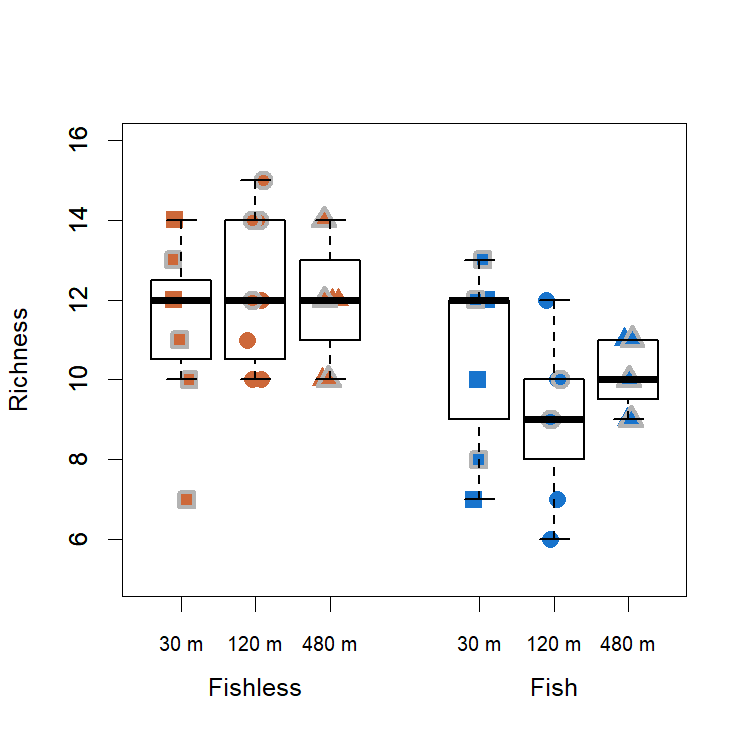
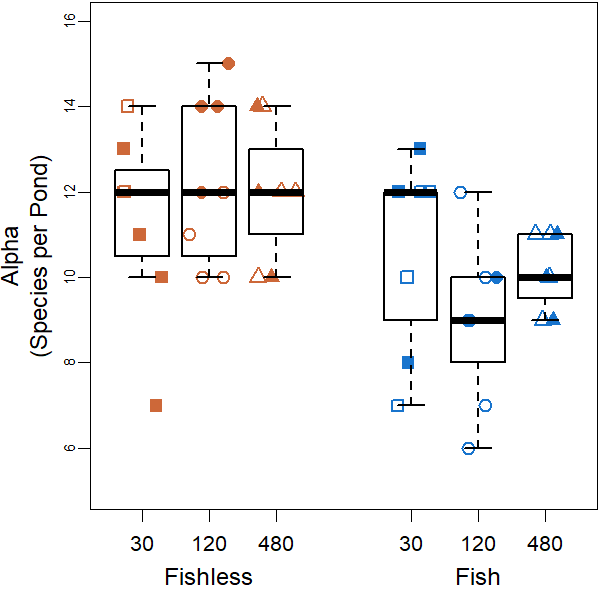
Updating alpha diversity analyses

diff --git a/Alpha Diversity Analyses/Alpha-Diversity-Analyses.md b/Alpha Diversity Analyses/Alpha-Diversity-Analyses.md
@@ -117,31 +117,39 @@ richness.
 Lets plot it:
 
 ``` r
+par(cex = 0.75, mar = c(4,4,0.1,0.1))
+
 boxplot(com_SS2_SS3_richness~isolation_SS2_SS3*fish_SS2_SS3,
-        outline = F, ylab = "Richness", xlab = "",
-        at = c(1,2,3,5,6,7),ylim = c(5,16), lwd = 1.5, col = "transparent", xaxt="n")
+        outline = F, ylab = "", xlab = "",
+        at = c(1,2,3,5,6,7),ylim = c(5,16), lwd = 1.5, col = "transparent", xaxt="n", yaxt="n")
 mylevels <- levels(All)
-levelProportions <- summary(All)/length(com_SS2_SS3_richness)
-col <- c(rep("sienna3",3), rep("dodgerblue3",3), rep("grey70",6))
-bg <- c(rep("sienna3",3), rep("dodgerblue3",3),rep("sienna3",3), rep("dodgerblue3",3))
-pch <- c(15,16,17,15,16,17,22,21,24,22,21,24)
+#levelProportions <- summary(All)/length(com_SS2_SS3_richness)
+col <- c(rep("sienna3",3), rep("dodgerblue3",3),rep("sienna3",3), rep("dodgerblue3",3))
+bg <- c(rep("transparent",3), rep("transparent",3),rep("sienna3",3), rep("dodgerblue3",3))
+pch <- c(22,21,24,22,21,24,15,16,17,15,16,17)
 for(i in 1:length(mylevels)){
-  
+
   x<- c(1,2,3,5,6,7,1,2,3,5,6,7)[i]
   thislevel <- mylevels[i]
   thisvalues <- com_SS2_SS3_richness[All==thislevel]
-  
+
   # take the x-axis indices and add a jitter, proportional to the N in each level
-  myjitter <- jitter(rep(x, length(thisvalues)), amount=levelProportions[i]/0.8)
-  points(myjitter, thisvalues, pch=pch[i], col=col[i], bg = bg[i] , cex = 1.5, lwd = 3) 
-  
+  myjitter <- jitter(rep(x, length(thisvalues)), amount=0.3)
+  points(myjitter, thisvalues, pch=pch[i], col=col[i], bg = bg[i] , cex = 1.5, lwd = 1.5)
+
 }
 boxplot(com_SS2_SS3_richness~isolation_SS2_SS3*fish_SS2_SS3,
         add = T, col = "transparent", outline = F,at = c(1,2,3,5,6,7),
-        lwd = 1.5, xaxt="n")
-axis(1,labels = c("30 m","120 m", "480 m","30 m","120 m", "480 m"), cex.axis = 0.8,
-     at =c(1,2,3,5,6,7))
-axis(1,labels = c("Fishless","Fish"), cex.axis = 1, at =c(2,6), line = 1.5, tick = F )
+        lwd = 1.5, xaxt="n", yaxt="n")
+
+axis(1,labels = c("30","120", "480","30","120", "480"), cex.axis = 1.1,
+     at =c(1,2,3,5,6,7), gap.axis = -10)
+axis(1,labels = c("Fishless","Fish"), cex.axis = 1.3, at =c(2,6), line = 1.5, tick = F )
+axis(2, cex.axis = 0.8, gap.axis = 0, line = -0.5, tick = FALSE)
+axis(2, cex.axis = 0.8, gap.axis = 0, line = 0, tick = TRUE, labels = FALSE)
+
+title(ylab = "Alpha", cex.lab = 1.3, line = 3)
+title(ylab = "(Species per Pond)", cex.lab = 1.3, line = 1.75)
 ```
 
 <img src="Alpha-Diversity-Analyses_files/figure-gfm/unnamed-chunk-1-1.png" width="490" height="490" style="display: block; margin: auto;" />
@@ -149,65 +157,82 @@ axis(1,labels = c("Fishless","Fish"), cex.axis = 1, at =c(2,6), line = 1.5, tick
 Ploting two surveys separetely
 
 ``` r
-par(mfrow = c(1,2))
+par(cex = 0.75, mar = c(4,4,1.5,0.1))
+
+
 boxplot(com_SS2_SS3_richness[SS_SS2_SS3 == "2"]~isolation_SS2*fish_SS2,
-        outline = F, ylab = "Richness", xlab = "",
-        at = c(1,2,3,5,6,7),ylim = c(5,16), lwd = 1.5, col = "transparent", xaxt="n", main = "Second Survey")
+        outline = F, ylab = "", xlab = "",
+        at = c(1,2,3,5,6,7),ylim = c(5,16), lwd = 1.5, col = "transparent", xaxt="n",  yaxt="n")
 mylevels <- levels(fish_isolation_SS2)
-levelProportions <- summary(fish_isolation_SS2)/length(com_SS2_SS3_richness[SS_SS2_SS3 == "2"])
+#levelProportions <- summary(fish_isolation_SS2)/length(com_SS2_SS3_richness[SS_SS2_SS3 == "2"])
+col <- rep(c("sienna3", "dodgerblue3"),3)
+bg <- rep(c("transparent", "transparent"),3)
+pch <- c(22,22,21,21,24,24) #o outro é 22,21,24
+for(i in 1:length(mylevels)){
+
+  x<- c(1,5,2,6,3,7)[i]
+  thislevel <- mylevels[i]
+  thisvalues <- com_SS2_SS3_richness[SS_SS2_SS3 == "2"][fish_isolation_SS2==thislevel]
+
+  # take the x-axis indices and add a jitter, proportional to the N in each level
+  myjitter <- jitter(rep(x, length(thisvalues)), amount=0.3)
+  points(myjitter, thisvalues, pch=pch[i], col=col[i], bg = bg[i] , cex = 1.5, lwd = 1.5)
+
+}
+boxplot(com_SS2_SS3_richness[SS_SS2_SS3 == "2"]~isolation_SS2*fish_SS2,
+        add = T, col = "transparent", outline = F,at = c(1,2,3,5,6,7),
+        lwd = 1.5, xaxt="n", yaxt="n")
+
+axis(1,labels = c("30","120", "480","30","120", "480"), cex.axis = 1.1,
+     at =c(1,2,3,5,6,7), gap.axis = -10)
+axis(1,labels = c("Fishless","Fish"), cex.axis = 1.3, at =c(2,6), line = 1.5, tick = F )
+axis(2, cex.axis = 0.8, gap.axis = 0, line = -0.5, tick = FALSE)
+axis(2, cex.axis = 0.8, gap.axis = 0, line = 0, tick = TRUE, labels = FALSE)
+
+title(ylab = "Alpha", cex.lab = 1.3, line = 3)
+title(ylab = "(Species per Pond)", cex.lab = 1.3, line = 1.75)
+
+title(main = "Second Survey", cex.lab = 1.3, line = 0.5)
+```
+
+<img src="Alpha-Diversity-Analyses_files/figure-gfm/unnamed-chunk-2-1.png" width="490" height="490" style="display: block; margin: auto;" />
+
+``` r
+par(cex = 0.75, mar = c(4,4,1.5,0.1))
+
+boxplot(com_SS2_SS3_richness[SS_SS2_SS3 == "3"]~isolation_SS3*fish_SS3,
+        outline = F, ylab = "", xlab = "",
+        at = c(1,2,3,5,6,7),ylim = c(5,16), lwd = 1.5, col = "transparent", xaxt="n", yaxt="n")
+mylevels <- levels(fish_isolation_SS3)
+#levelProportions <- summary(fish_isolation_SS3)/length(com_SS2_SS3_richness[SS_SS2_SS3 == "2"])
 col <- rep(c("sienna3", "dodgerblue3"),3)
 bg <- rep(c("sienna3", "dodgerblue3"),3)
 pch <- c(15,15,16,16,17,17) #o outro é 22,21,24
 for(i in 1:length(mylevels)){
-  
-  x<- c(1,5,2,6,3,7)[i]
-  thislevel <- mylevels[i]
-  thisvalues <- com_SS2_SS3_richness[SS_SS2_SS3 == "2"][fish_isolation_SS2==thislevel]
-  
-  # take the x-axis indices and add a jitter, proportional to the N in each level
-  myjitter <- jitter(rep(x, length(thisvalues)), amount=levelProportions[i]/0.8)
-  points(myjitter, thisvalues, pch=pch[i], col=col[i], bg = bg[i] , cex = 1.5, lwd = 3) 
-  
-}
-boxplot(com_SS2_SS3_richness[SS_SS2_SS3 == "2"]~isolation_SS2*fish_SS2,
-        add = T, col = "transparent", outline = F,at = c(1,2,3,5,6,7),
-        lwd = 1.5, xaxt="n")
-axis(1,labels = c("30 m","120 m", "480 m","30 m","120 m", "480 m"), cex.axis = 0.8,
-     at =c(1,2,3,5,6,7))
-axis(1,labels = c("Fishless","Fish"), cex.axis = 1, at =c(2,6), line = 1.5, tick = F )
-#box(lwd = 2.5)
 
-
-
-boxplot(com_SS2_SS3_richness[SS_SS2_SS3 == "3"]~isolation_SS3*fish_SS3,
-        outline = F, ylab = "Richness", xlab = "",
-        at = c(1,2,3,5,6,7),ylim = c(5,16), lwd = 1.5, col = "transparent", xaxt="n", main = "Third Survey")
-mylevels <- levels(fish_isolation_SS3)
-levelProportions <- summary(fish_isolation_SS3)/length(com_SS2_SS3_richness[SS_SS2_SS3 == "2"])
-col <- rep(c("grey70", "grey70"),3)
-bg <- rep(c("sienna3", "dodgerblue3"),3)
-pch <- c(22,22,21,21,24,24) #o outro é 22,21,24
-for(i in 1:length(mylevels)){
-  
   x<- c(1,5,2,6,3,7)[i]
   thislevel <- mylevels[i]
   thisvalues <- com_SS2_SS3_richness[SS_SS2_SS3 == "3"][fish_isolation_SS3==thislevel]
-  
+
   # take the x-axis indices and add a jitter, proportional to the N in each level
-  myjitter <- jitter(rep(x, length(thisvalues)), amount=levelProportions[i]/0.8)
-  points(myjitter, thisvalues, pch=pch[i], col=col[i], bg = bg[i] , cex = 1.5, lwd = 3) 
-  
+  myjitter <- jitter(rep(x, length(thisvalues)), amount=0.3)
+  points(myjitter, thisvalues, pch=pch[i], col=col[i], bg = bg[i] , cex = 1.5, lwd = 1.5)
+
 }
 boxplot(com_SS2_SS3_richness[SS_SS2_SS3 == "3"]~isolation_SS3*fish_SS3,
         add = T, col = "transparent", outline = F,at = c(1,2,3,5,6,7),
-        lwd = 1.5, xaxt="n")
-axis(1,labels = c("30 m","120 m", "480 m","30 m","120 m", "480 m"), cex.axis = 0.8,
-     at =c(1,2,3,5,6,7))
-axis(1,labels = c("Fishless","Fish"), cex.axis = 1, at =c(2,6), line = 1.5, tick = F )
+        lwd = 1.5, xaxt="n", yaxt="n")
+
+axis(1,labels = c("30","120", "480","30","120", "480"), cex.axis = 1.1,
+     at =c(1,2,3,5,6,7), gap.axis = -10)
+axis(1,labels = c("Fishless","Fish"), cex.axis = 1.3, at =c(2,6), line = 1.5, tick = F )
+axis(2, cex.axis = 0.8, gap.axis = 0, line = -0.5, tick = FALSE)
+axis(2, cex.axis = 0.8, gap.axis = 0, line = 0, tick = TRUE, labels = FALSE)
+
+title(ylab = "Alpha", cex.lab = 1.3, line = 3)
+title(ylab = "(Species per Pond)", cex.lab = 1.3, line = 1.75)
+
+title(main = "Third Survey", cex.lab = 1.3, line = 0.5)
 ```
 
-<img src="Alpha-Diversity-Analyses_files/figure-gfm/unnamed-chunk-2-1.png" width="980" height="490" style="display: block; margin: auto;" />
-
-``` r
-#box(lwd = 2.5)
-```
+<img src="Alpha-Diversity-Analyses_files/figure-gfm/unnamed-chunk-3-1.png" width="490" height="490" style="display: block; margin: auto;" />
